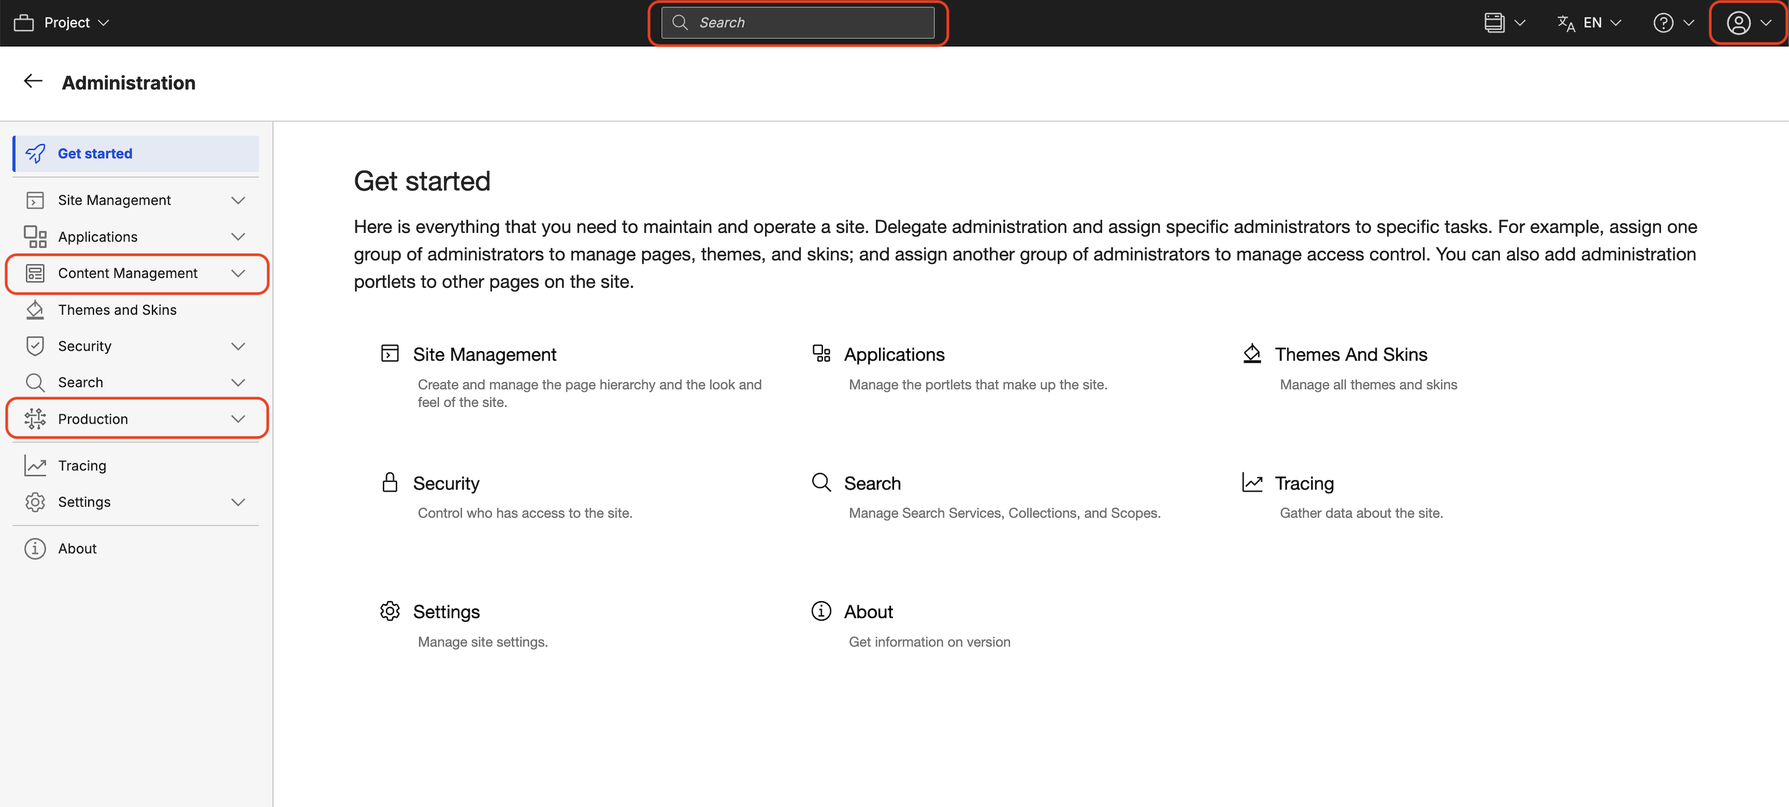
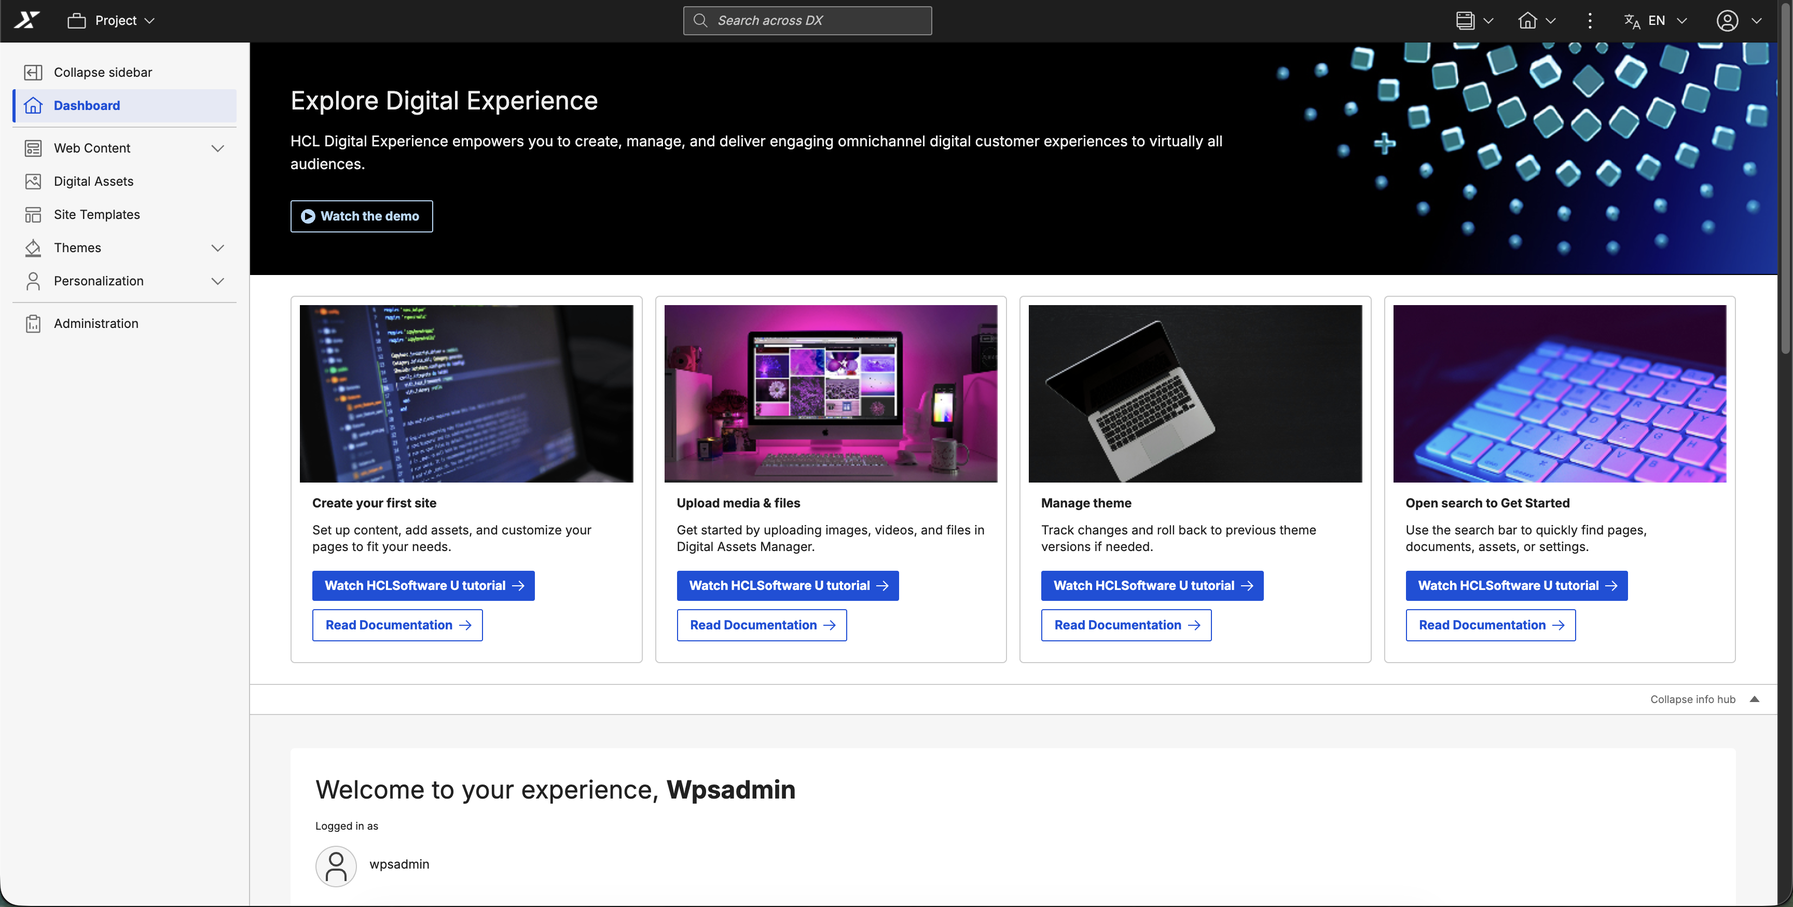
[CF235] Fix Practitioner Studio pages

diff --git a/docs/build_sites/practitioner_studio/administration.md b/docs/build_sites/practitioner_studio/administration.md
@@ -1,120 +1,104 @@
 # Administration
 
-Use the Portal administration portlets that are provided with HCL Digital Experience to perform various day-to-day administration tasks.
+Use the Portal administration portlets that are provided with HCL DX to perform various day-to-day administration tasks.
 
+## Site management
 
-## Site Management
+Manage the structure and foundation of your portal environment, including pages, virtual portals, and templates.
 
-- **Pages** – Use **Manage Pages** to create, edit, activate, order, and delete pages, external web pages, and labels.  
-  [Manage pages portlets](../../deployment/manage/portal_admin_tools/portal_user_interface/managing_pages/manage_pages_portlets/index.md)
-
-- **Virtual Portal** – The **Virtual Portal Manager** portlet lets you create, configure, and manage virtual portals, including default content, access rights, and administration settings.  
-  [Learn more about the Virtual Portal Manager portlet](../../build_sites/virtual_portal/vp_mgr_portlet/index.md)
-
-- **Page Templates** – Page templates define the layout, style, and content structure for web content pages, enabling consistent, customizable pages across your site.  
-  [Learn more about page templates](../../manage_content/wcm_delivery/deliver_webcontent_on_dx/getting_started/wcm_delivery_webpagetemplate_about.md#web-content-pages-and-templates)
+- **[Manage Pages portlet](../../deployment/manage/portal_admin_tools/portal_user_interface/managing_pages/manage_pages_portlets/index.md)**  
+    Learn how to use the Manage Pages portlet to create, edit, activate, order, and delete pages, external web pages, and labels.
+- **[Virtual Portal Manager](../../build_sites/virtual_portal/vp_mgr_portlet/index.md)**  
+    Learn how to use the Virtual Portal Manager portlet to create, configure, and manage virtual portals, including default content, access rights, and administration settings.
+- **[Page templates](../../manage_content/wcm_delivery/deliver_webcontent_on_dx/getting_started/wcm_delivery_webpagetemplate_about.md#web-content-pages-and-templates)**  
+    Learn how to use page templates to define the layout, style, and content structure for web content pages.
 
 ## Applications
 
-- **Web Modules** – Use the **Manage Web Modules** portlet to install, update, and manage portlets from web services or WAR files, and to view detailed information and access settings for each module.  
-  [Learn more about managing web modules](../../extend_dx/portlets_development/mng_portlets_apps_widgets/portlet_management/managing_web_modules/index.md)
+Deploy and administer portlets, web modules, and applications across your DX platform.
 
-- **Applications** – Use the **Manage Applications** portlet to enable portlet applications as web services, view their portlets, and edit their properties.  
-  [Learn more about managing portlet applications](../../extend_dx/portlets_development/mng_portlets_apps_widgets/portlet_management/managing_portlet_apps/index.md)
+- **[Web Modules](../../extend_dx/portlets_development/mng_portlets_apps_widgets/portlet_management/managing_web_modules/index.md)**  
+    Learn how to use the Manage Web Modules portlet to install, update, and manage portlets from web services or WAR files, and to view detailed information and access settings for each module.
+- **[Applications](../../extend_dx/portlets_development/mng_portlets_apps_widgets/portlet_management/managing_portlet_apps/index.md)**  
+    Learn how to use the Manage Applications portlet to enable portlet applications as web services, view their portlets, and edit their properties.
+- **[Portlets](../../extend_dx/portlets_development/mng_portlets_apps_widgets/portlet_management/index.md)**  
+    Learn how to use Portlet Management tools to install, configure, and manage portlets and web services, including creating, modifying, and controlling access to portlets across your HCL DX environment.
 
-- **Portlets** – Use the **Portlet Management** tools to install, configure, and manage portlets and web services, including creating, modifying, and controlling access to portlets across your HCL Digital Experience environment.  
-  [Learn more about portlet management](../../extend_dx/portlets_development/mng_portlets_apps_widgets/portlet_management/index.md)
+## Content management
 
----
+Synchronize, syndicate, and organize your web content efficiently using dedicated management tools and extensions.
 
-## Content Management
-
-- **Syndicators and Subscribers** – Use **syndication** to transfer and synchronize web content between HCL Digital Experience environments by configuring, monitoring, and managing syndicators and subscribers.  
-  [Learn more about managing syndicators and subscribers](../../manage_content/wcm_delivery/syndication/manage_synd_subs/index.md)
-
-- **Feed Management** – Use **Web Content Feed Management** to create, configure, schedule, and manage web content feeds across your environment.  
-  [Learn more about Content Feed Management](../../manage_content/wcm_authoring/wci/webcontentfeed_mgmt/index.md)
-
-- **Multi-locale Library Copy Application** – Use the **Library Copy** portlet extension to create a new locale by duplicating an existing library with a new name and locale.  
-  [Learn more about the Library Copy portlet extension](../../manage_content/wcm_authoring/multi_lingual/mls_extension/wcm_mls_ext_library.md)
-
-- **WCM Support Tools** – Use the **HCL Web Content Manager Support Tools** portlet to view, analyze, and troubleshoot Java Content Repository (JCR) nodes and content directly.  
-  [Learn more about Content Manager Support Tools](../../deployment/manage/troubleshooting/wcm_support_tools.md)
-
-- **Themes and Skins** – Use the **Themes and Skins** portlet to manage the visual design of your portal by setting default themes and skins, associating them, and adding or removing theme elements to ensure a consistent user experience.  
-  [Learn more about themes and skins](../../deployment/manage/portal_admin_tools/portal_user_interface/managing_pages/manage_pages_portlets/customizing_pages/admcustom_skins.md)
-
----
+- **[Syndicators and subscribers](../../manage_content/wcm_delivery/syndication/manage_synd_subs/index.md)**  
+    Learn how to use syndication to transfer and synchronize web content between HCL DX environments by configuring, monitoring, and managing syndicators and subscribers.
+- **[Feed management](../../manage_content/wcm_authoring/wci/webcontentfeed_mgmt/index.md)**  
+    Learn how to use Web Content Feed Management to create, configure, schedule, and manage web content feeds across your environment.
+- **[Multi-locale Library Copy application](../../manage_content/wcm_authoring/multi_lingual/mls_extension/wcm_mls_ext_library.md)**  
+    Learn how to use the Library Copy portlet extension to create a new locale by duplicating an existing library with a new name and locale.
+- **[WCM Support Tools](../../deployment/manage/troubleshooting/wcm_support_tools.md)**  
+    Learn how to use the HCL Web Content Manager Support Tools portlet to view, analyze, and troubleshoot Java Content Repository (JCR) nodes and content directly.
+- **[Themes and Skins](../../deployment/manage/portal_admin_tools/portal_user_interface/managing_pages/manage_pages_portlets/customizing_pages/admcustom_skins.md)**  
+    Learn how to use the Themes and Skins portlet to manage the visual design of your portal by setting default themes and skins, associating them, and adding or removing theme elements to ensure a consistent user experience.
 
 ## Security
 
-- **Users and Groups** – Use the **Users and Groups** portlet to manage user accounts and group memberships, including creating, editing, deleting, and assigning roles and permissions.  
-  [Learn more about managing users and groups](../../deployment/manage/security/people/authorization/controlling_access/index.md)
+Secure your portal by managing users, defining resource permissions, and safeguarding credentials for authentication.
 
-- **Resource Permissions** – Use the **Resource Permissions** portlet to manage access control by assigning roles, setting inheritance, and defining ownership or external security management.  
-  [Learn more about working with resource permissions](../../deployment/manage/security/people/authorization/controlling_access/working_with_resource_permission/index.md)
-
-- **User and Group Permissions** – Use the **User and Group Permissions** portlet to assign roles and manage group memberships.  
-  [Learn more about managing permissions for users and groups](../../deployment/manage/security/people/authorization/controlling_access/user_group_permission/index.md)
-
-- **Credential Vault** – Use the **Credential Vault** portlet to securely manage and access stored credentials for single sign-on authentication.  
-  [Learn more about managing credential information](../../deployment/manage/security/people/authorization/controlling_access/managing_cred_info/index.md)
-
----
+- **[Users and Groups](../../deployment/manage/security/people/authorization/controlling_access/index.md)**  
+    Learn how to use the Users and Groups portlet to manage user accounts and group memberships, including creating, editing, deleting, and assigning roles and permissions.
+- **[Resource Permissions](../../deployment/manage/security/people/authorization/controlling_access/working_with_resource_permission/index.md)**  
+    Learn how to use the Resource Permissions portlet to manage access control by assigning roles, setting inheritance, and defining ownership or external security management.
+- **[User and Group Permissions](../../deployment/manage/security/people/authorization/controlling_access/user_group_permission/index.md)**  
+    Learn how to use the User and Group Permissions portlet to assign roles and manage group memberships.
+- **[Credential Vault](../../deployment/manage/security/people/authorization/controlling_access/managing_cred_info/index.md)**  
+    Learn how to use the Credential Vault portlet to securely manage and access stored credentials for single sign-on authentication.
 
 ## Search
 
-- **Settings** – Use the **Manage Search** portlet to configure and administer portal search services, collections, and scopes.  
-  [Learn more about administering portal search](../../build_sites/search/portal_search/administer_portal_search/index.md)
+Administer search collections, scopes, and tagging capabilities to enhance content discoverability across your site.
 
-- **Tag Center** – Use the **Tag Center** to search and browse portal resources by tags.  
-  [Learn more about Tag Center](../../manage_content/wcm_authoring/authoring_portlet/content_management_artifacts/tagrate_managing/tag_center/index.md)
+- **[Settings](../../build_sites/search/portal_search/administer_portal_search/index.md)**  
+    Learn how to use the Manage Search portlet to configure and administer portal search services, collections, and scopes.
+- **[Tag Center](../../manage_content/wcm_authoring/authoring_portlet/content_management_artifacts/tagrate_managing/tag_center/index.md)**  
+    Learn how to use the Tag Center to search and browse portal resources by tags.
+
 ## Production
 
-- **Web Services** – Use the **Web Service Configuration** portlet to set up your portal to consume remote portlets through WSRP.  
-  [Learn more about Web Service Configuration](../../extend_dx/portlets_development/usage/wsrp/configuration/cfg_portal_for_webservices/h_wserv_about.md)
+Integrate web services, manage virtual applications, and handle configuration imports for your production environment.
 
-- **Virtual Application Manager** – Use the **Virtual Portal Manager** portlet to create, configure, and administer virtual portals on demand.  
-  [Learn more about the Virtual Portal Manager portlet](../../build_sites/virtual_portal/vp_mgr_portlet/index.md)
-
-- **XML Import** – Use the **XML Configuration** portlet to import portal configuration files and review the import status.  
-  [Learn more about XML Configuration](../../build_sites/virtual_portal/vp_mgr_portlet/index.md)
-
----
+- **[Web Services](../../extend_dx/portlets_development/usage/wsrp/configuration/cfg_portal_for_webservices/h_wserv_about.md)**  
+    Learn how to use the Web Service Configuration portlet to set up your portal to consume remote portlets through WSRP.
+- **[Virtual Application Manager](../../build_sites/virtual_portal/vp_mgr_portlet/index.md)**  
+    Learn how to use the Virtual Portal Manager portlet to create, configure, and administer virtual portals on demand.
+- **[XML Import](../../build_sites/virtual_portal/vp_mgr_portlet/index.md)**  
+    Learn how to use the XML Configuration portlet to import portal configuration files and review the import status.
 
 ## Tracing
 
-Use client-side logging and tracing to capture and analyze JavaScript execution and page rendering behavior in HCL Digital Experience.
+Monitor and troubleshoot your portal using client-side logging, content reporting, and diagnostic support tools to capture and analyze system behavior.
 
-- [**HCL Content Composer**](../../manage_content/wcm_authoring/content_composer/index.md)  
-  Learn how to use HCL Content Composer to create and manage site content.
-
-- [**HCL Content Reporting**](../../manage_content/wcm_authoring/content_reporting/index.md)  
-  Learn how to generate reports and update reported items in bulk.
-
-- [**HCL Web Content Manager Support Tools**](../../deployment/manage/troubleshooting/wcm_support_tools.md)  
-  Learn how to use the Web Content Manager (WCM) Support Tools portlet to investigate and analyze Java Content Repository (JCR) nodes.
-
-- [**Managing Syndicators and Subscribers**](../../manage_content/wcm_delivery/syndication/manage_synd_subs/index.md)  
-  Learn how to transport data between HCL Web Content Manager instances.
-
-- [**Web Content Feed Management**](../../manage_content/wcm_authoring/wci/webcontentfeed_mgmt/index.md)  
-  Learn how to create and manage content feeds.
+- **[HCL Content Composer](../../manage_content/wcm_authoring/content_composer/index.md)**  
+    Learn how to use HCL Content Composer to create and manage site content.
+- **[HCL Content Reporting](../../manage_content/wcm_authoring/content_reporting/index.md)**  
+    Learn how to generate reports and update reported items in bulk.
+- **[HCL Web Content Manager Support Tools](../../deployment/manage/troubleshooting/wcm_support_tools.md)**  
+    Learn how to use the Web Content Manager (WCM) Support Tools portlet to investigate and analyze Java Content Repository (JCR) nodes.
+- **[Managing Syndicators and Subscribers](../../manage_content/wcm_delivery/syndication/manage_synd_subs/index.md)**  
+    Learn how to transport data between HCL Web Content Manager instances.
+- **[Web Content Feed Management](../../manage_content/wcm_authoring/wci/webcontentfeed_mgmt/index.md)**  
+    Learn how to create and manage content feeds.
 
 ## Settings
 
-- **Global** – Learn how to set portal server options, including the default language, home page, Find URL, and behavior for unauthorized portlets.  
-  [Learn more about managing global settings](../../build_sites/portal_settings/manage_global_setting/index.md)
+Configure essential global properties, unique naming conventions, markup configurations, and client device support for your portal.
 
-- **Custom Unique Names** – Learn how to configure unique naming conventions for portal resources to ensure consistent identification across environments.  
-  [Learn more about managing custom unique names](../../build_sites/portal_settings/manage_custom_unique_names/index.md)
-
-- **Markups** – Learn how to use **Manage Markups** to register markup types that the portal can support.  
-  [Learn more about managing markup languages](../../build_sites/portal_settings/manage_markup_language/index.md)
-
-- **Clients** – Learn how to define the types of devices that can access the portal and manage their client-specific settings.  
-  [Learn more about managing client devices](../../build_sites/portal_settings/manage_client_devices/index.md)
-
+- **[Global](../../build_sites/portal_settings/manage_global_setting/index.md)**  
+    Learn how to set portal server options, including the default language, home page, Find URL, and behavior for unauthorized portlets.
+- **[Custom Unique Names](../../build_sites/portal_settings/manage_custom_unique_names/index.md)**  
+    Learn how to configure unique naming conventions for portal resources to ensure consistent identification across environments.
+- **[Markups](../../build_sites/portal_settings/manage_markup_language/index.md)**  
+    Learn how to use Manage Markups to register markup types that the portal can support.
+- **[Clients](../../build_sites/portal_settings/manage_client_devices/index.md)**  
+    Learn how to define the types of devices that can access the portal and manage their client-specific settings.
 
 <!--- 
 -   **[Manage pages portlets](../admin-system/mp_manage_pages.md)**  
@@ -161,4 +145,3 @@ You can create a new custom unique name for a portal resource or update an exist
 You can set supported markups on modifiable instances that implement the ModifiableMarkupCapable interface.
 -   **[Client identification for external search engines](../admin-system/srrclientid.md)**  
 For the portal to recognize external search engines, HCL Digital Experience provides a client that covers several popular search engines. --->
-

diff --git a/docs/build_sites/practitioner_studio/index.md b/docs/build_sites/practitioner_studio/index.md
@@ -1,9 +1,24 @@
 # Practitioner Studio
 
-Practitioner Studio provides a modern user experience for HCL Digital Experience (DX). Please see the following pages to understand how the navigation is organized.
+Practitioner Studio provides a modern and streamlined user experience for HCL DX. There are several advantages to this new look. The consolidated navigation has a consistent look and feel for most administration tasks so that commonly used tasks are found together. User assistance is easily found and is provided for pages that are in the navigation. In time, this interface also serves as the launching point for newly developed features. Enabling Practitioner Studio deactivates the legacy Administration and Applications pages. However, all of these functions are still available.
 
 !!! note
     During the update, custom-created authoring pages may no longer contain the referenced portlets, if those specific portlets were part of the rearrangement of pages. To prevent this, simply export the custom authoring page before migration and import it again after the process is complete.
+
+- **[Practitioner Dashboard](../practitioner_studio/dashboard.md)**  
+  Use the modern interface with widgets, action buttons, and quick links to manage common tasks and information efficiently.
+- **[Web content](../practitioner_studio/web_content.md)**  
+  Learn more about managing libraries, creating, editing, or cleaning up data, and setting up syndication for HCL DX web content management.
+- **[HCL Digital Asset Management (DAM)](../../manage_content/digital_assets/index.md)**  
+  Learn how to centrally store, manage, and add rich media assets to DX site content for consistent, engaging digital experiences across channels.
+- **[Site templates](../practitioner_studio/site_templates.md)**  
+  Site templates are configured and managed using Site Builder. If Practitioner Studio isn’t enabled, you can still manage Site templates manually.
+- **[Personalization](../practitioner_studio/personalization.md)**  
+  Learn how to configure your HCL DX portal site as an administrator.
+- **[Themes](../practitioner_studio/themes.md)**  
+  Learn how to use the Theme Manager portlet and the Theme Optimization Analyzer to create and develop theme web content.
+- **[Administration](../practitioner_studio/administration.md)**  
+  Use the Portal administration portlets that are provided with HCL DX to do various day-to-day administration tasks.
 
 ## Enhanced Practitioner Studio and toolbar
 
@@ -15,50 +30,8 @@ Starting from CF230, the Practitioner Studio toolbar and UI have undergone the f
 
 - A dedicated user profile menu has been introduced, providing quick access to profile management, impersonation, and logout options.
 - The Administration pages have been reorganized to improve usability. Two new sections have been introduced:
-
-  - **Web Content**  
-    This section provides access to applications used for the general administration of Web Content Management.
-
-  - **Digital Assets**  
-    This section introduces HCL Digital Asset Management (DAM), which lets you manage rich media assets in HCL DX sites to create consistent, engaging digital experiences. The feature is available starting with HCL DX 9.5 CF181 and later.
-
-  - **Site templates**  
-      The Site Template (Site Builder) application lets you create site and section templates in HCL Digital Experience (DX).
-
-  - **Themes**  
-      Use the Theme Manager and WebDAV to easily create, customize, and manage themes that define the look, layout, and behavior of your HCL Digital Experience portal.
-
-  - **Personalization**  
-    Personalization recognizes site visitors based on their profiles and behaviors to deliver targeted, region-specific content and a personalized page experience.
-
-  - **Administration**  
-    Administration portlets help you manage resources. Learn about each portlet and the tasks you can complete with it.
-
-## Overview
-
-Practitioner Studio provides a modern and streamlined user experience for HCL DX. There are several advantages to this new look. The consolidated navigation has a consistent look and feel for most administration tasks so that commonly used tasks are found together. User assistance is easily found and is provided for pages that are in the navigation. In time, this interface also serves as the launching point for newly developed features. Enabling Practitioner Studio deactivates the legacy Administration and Applications pages. However, all of these functions are still available.
-
-- **[Practitioner Dashboard](../practitioner_studio/dashboard.md)**  
-  Use the modern interface with widgets, action buttons, and quick links to manage common tasks and information efficiently.
-
-- **[Administration](../practitioner_studio/administration.md)**  
-  Use the Portal administration portlets that are provided with HCL DX to do various day-to-day administration tasks.
-
-- **[HCL Digital Asset Management (DAM)](../../manage_content/digital_assets/index.md)**  
-  Learn how to centrally store, manage, and add rich media assets to DX site content for consistent, engaging digital experiences across channels.
-
-- **[Personalization](../practitioner_studio/personalization.md)**  
-  Learn how to configure your HCL DX portal site as an administrator.
-
-- **[Site templates](../practitioner_studio/site_templates.md)**  
-  Site templates are configured and managed using Site Builder. If Practitioner Studio isn’t enabled, you can still manage Site templates manually.
-
-- **[Themes](../practitioner_studio/themes.md)**  
-  Learn how to use the Theme Manager portlet and the Theme Optimization Analyzer to create and develop theme web content.
-- **[Web content](../practitioner_studio/web_content.md)**  
-  Learn more about managing libraries, creating, editing, or cleaning up data, and setting up syndication for HCL DX web content management.
-
-
+    - **Content Management:** This section provides access to applications used for the general administration of Web Content Management.
+    - **Production:** This section includes applications designed to streamline essential administrative tasks for managing the portal.
 
 ## HCLSoftware U learning materials
 

diff --git a/docs/build_sites/index.md b/docs/build_sites/index.md
@@ -4,7 +4,7 @@ HCL Digital Experience provides an array of features that provides a seamless ex
 
 Setting up a website includes, creating pages, adding navigation, setting up search, and adding content to the site. Themes are used to customize the portal's look-and-feel. Out-of-the-box templates and the site wizard can help you set up your portal site faster. You can add wikis and blogs to your site and let users tag and rate content on your site.
 
-- **[Building Sites](./create_sites/index.md)**  
+- **[Setting up sites](./create_sites/index.md)**  
 Setting up a website includes creating pages, adding navigation, setting up search, and adding content to the site.
 - **[Blueprint](./blueprint.md)**  
 Blueprint is a design system aimed at accelerating the implementation of new sites in the HCL DX platform.
